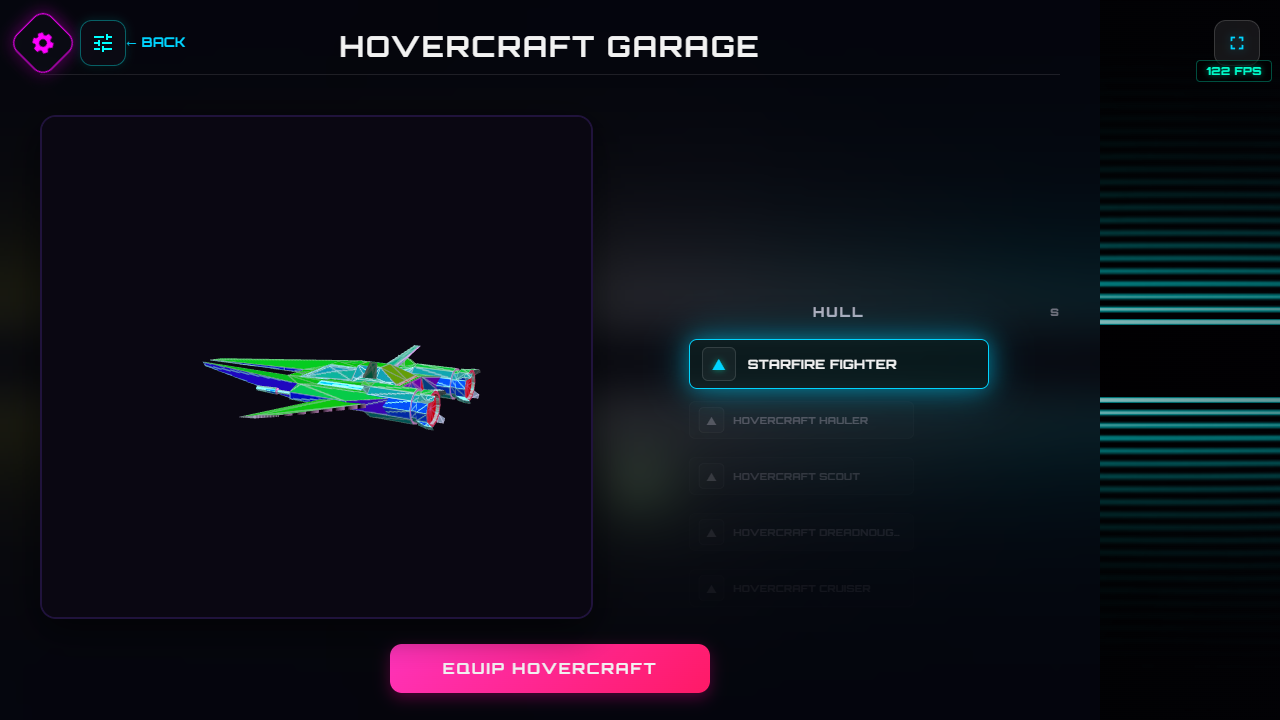
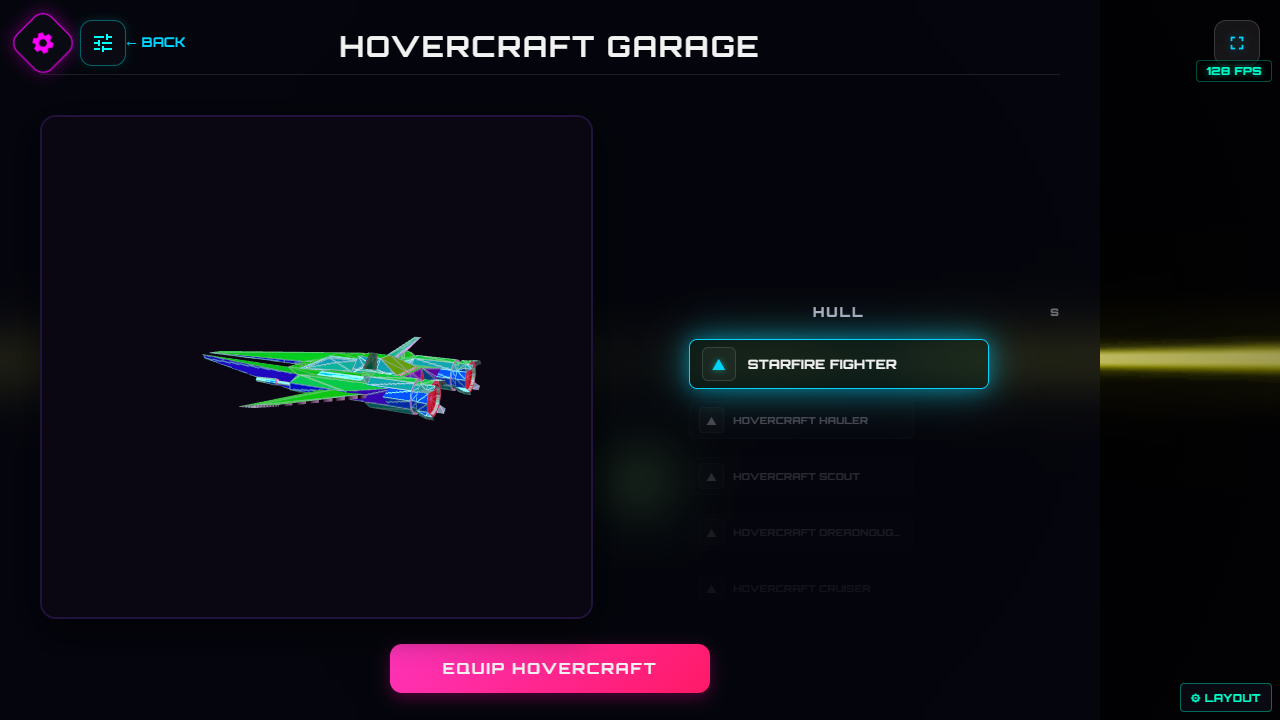
fix: resolve butterchurn import error by restoring Three-native visualizer configurations

diff --git a/visualizer/engine.js b/visualizer/engine.js
@@ -1,128 +1,92 @@
 /**
- * engine.js — standalone Butterchurn render engine.
+ * engine.js — visualizer engine (THREE-native Milkdrop renderer).
  *
- * Webamp's own milkdrop WINDOW never renders any DOM (its generated/resizable
- * window positions itself off `state.windows.browserWindowSize`, which stays
- * `{width:0,height:0}` in standalone embedded Webamp — confirmed via live
- * Playwright inspection of the redux store). Rather than fight Webamp's
- * window manager, we drive Butterchurn ourselves: pull a real AnalyserNode
- * off Webamp's playback graph (`media.getAnalyser()`) and render to our own
- * canvas, modeled on BrainBlur's `src/js/engine.js` but reading from this
- * project's own curated `presets.js` array (index-based, not a name-keyed
- * map).
+ * Webamp owns playback and exposes a live AnalyserNode (media.getAnalyser());
+ * we drive our own THREE-native Milkdrop-default renderer (visualizer/
+ * milkdrop/) off it. The renderer draws into THREE render targets in the
+ * game's OWN WebGL context, so its output is a normal THREE texture with no
+ * cross-context transfer — the stall that plagued every Butterchurn-based
+ * approach is gone by construction.
  *
- * The visible result is NOT composited directly onto the page as a DOM
- * overlay — confirmed via live debugging (a hardcoded solid-color test block
- * rendered into a canvas's pixel buffer but never appeared on screen) that
- * the game's bloom/post-processing pipeline always writes alpha=1 into its
- * final output, making the 3D canvas opaque on screen regardless of its own
- * "transparent" renderer settings. Rather than fight that, graphics.js reads
- * Butterchurn's rendered output into a THREE.CanvasTexture and uses it as
- * the scene's own background — same WebGL context as the game, no
- * cross-canvas alpha compositing. `getCanvas()` is the integration point.
+ * This module keeps the same public surface the rest of the app expects
+ * (getPresetKeys / getCurrentIndex / loadPresetByIndex / loadRandomPreset /
+ * dispose, consumed by controls.js), plus the new render hooks
+ * (renderFrame / getOutputTexture) graphics.js calls each frame.
  *
- * Butterchurn's public `createVisualizer()` always renders to its own
- * internal WebGL canvas, then unconditionally blits that to a 2D canvas via
- * `outputGl.drawImage()` every frame (its `Visualizer.render()` wrapper does
- * this; see node_modules/butterchurn/dist/butterchurn.js). That blit is a
- * real cost — TRIED bypassing it by calling `visualizer.renderer.render()`
- * directly and feeding `visualizer.internalCanvas` (an OffscreenCanvas)
- * straight to THREE's CanvasTexture, skipping the wrapper's blit entirely.
- * That ran faster but rendered nothing visible (no thrown error, just a
- * blank texture) — the OffscreenCanvas-as-texture-source path didn't behave
- * like the plain `<canvas>`-via-2D-blit path in this THREE/browser
- * combination. Reverted; the resolution cap below (RENDER_HEIGHT) is the
- * real, verified lever for this engine's frame cost.
+ * Preset assets are unchanged: public/visualizer-presets/*.json, registry in
+ * presets.js. Their equations are already translated to JS and all use the
+ * default warp/comp shaders, so the renderer consumes them directly (see
+ * visualizer/milkdrop/equations.js + renderer.js).
  */
 
-import butterchurn from 'butterchurn'
 import { presets } from './presets.js'
+import { AudioLevels } from './milkdrop/audioLevels.js'
+import { MilkdropRenderer } from './milkdrop/renderer.js'
 
-const PRESET_BLEND_SECONDS = 2.0
+const PRESET_BLEND_SECONDS = 2.0 // accepted for API compat (blend not yet implemented)
+const FEEDBACK_MAX_HEIGHT = 720 // feedback buffer cap — cheap, plenty for a backdrop
+// Phase 1 renders the basic waveform + warp/comp feedback (shapes/custom
+// waves come later), so start on a basic-waveform-driven preset rather than
+// registry index 0 (which is shape-driven and would render dark for now).
+const DEFAULT_PRESET_INDEX = 32 // "Wire Circular: Geiss - Bipolar 3"
 
-let visualizer = null
-let canvasEl = null
+let renderer = null
+let audio = null
 let currentIndex = -1
 let resizeHandler = null
-let rafId = null
+let lastTime = 0
 
-/**
- * Creates the Butterchurn visualizer, connects audio, and starts the
- * render/resize loops.
- *
- * @param {HTMLCanvasElement} canvas
- * @param {AudioContext} audioContext
- * @param {AudioNode} audioNode - real-time analyser tapped off playback audio
- * @returns {object} the butterchurn visualizer instance
- */
-// This canvas only ever ends up as a blurred-by-distance scene background
-// (see graphics.js's CanvasTexture). Rendering it at full screen resolution
-// (further multiplied by devicePixelRatio on high-DPI displays) costs real
-// time on every frame's WebGL->2D->WebGL blit chain, for detail nobody sees.
-// A fixed, modest resolution keeps that cost flat regardless of display.
-const RENDER_HEIGHT = 360
-
-function sizeFor(width, height) {
-  const h = RENDER_HEIGHT
-  const w = Math.round(h * (width / height))
-  return { w, h }
+function feedbackSize() {
+  const h = Math.min(FEEDBACK_MAX_HEIGHT, window.innerHeight || 720)
+  const aspect = (window.innerWidth || 1280) / (window.innerHeight || 720)
+  return { width: Math.max(2, Math.round(h * aspect)), height: Math.max(2, h) }
 }
 
-export function initEngine(canvas, audioContext, audioNode) {
-  // REVERTED: feeding visualizer.internalCanvas (an OffscreenCanvas) directly
-  // into THREE's CanvasTexture rendered nothing visible, despite no thrown
-  // error — that cross-context upload path didn't behave the way the public
-  // <canvas>-via-2D-blit path does. Back to the known-working route: let
-  // Butterchurn do its normal render() (WebGL draw + blit to this 2D
-  // canvas), and use *that* canvas as the texture source.
-  canvasEl = canvas
-  const { w, h } = sizeFor(window.innerWidth, window.innerHeight)
-  canvas.width = w
-  canvas.height = h
+/**
+ * @param {THREE.WebGLRenderer} threeRenderer - the game's own renderer
+ * @param {AudioContext} _audioContext - unused (kept for call-site compat)
+ * @param {AnalyserNode} audioNode - Webamp's live playback analyser
+ * @returns {{ outputTexture: THREE.Texture }}
+ */
+export function initEngine(threeRenderer, _audioContext, audioNode) {
+  // Configure the analyser for our bands (1024 fft → 512 bins) with light
+  // built-in smoothing; AudioLevels adds the attack/decay smoothing on top.
+  try {
+    audioNode.fftSize = 1024
+    audioNode.smoothingTimeConstant = 0.6
+  } catch {
+    // some analyser impls disallow reconfiguration; AudioLevels adapts to whatever it is
+  }
+  audio = new AudioLevels(audioNode)
 
-  visualizer = butterchurn.createVisualizer(audioContext, canvas, {
-    width: w,
-    height: h,
-    pixelRatio: 1
-  })
+  const { width, height } = feedbackSize()
+  renderer = new MilkdropRenderer(threeRenderer, { width, height })
 
-  visualizer.connectAudio(audioNode)
-
-  loadPresetByIndex(0)
+  loadPresetByIndex(DEFAULT_PRESET_INDEX)
 
   resizeHandler = () => {
-    const { w, h } = sizeFor(window.innerWidth, window.innerHeight)
-    canvas.width = w
-    canvas.height = h
-    visualizer.setRendererSize(w, h)
+    const { width, height } = feedbackSize()
+    renderer.resize(width, height)
   }
   window.addEventListener('resize', resizeHandler)
 
-  // Both the inner WebGL->2D blit and the outer 2D->WebGL texture upload
-  // (graphics.js) are cross-context sync points whose cost is dominated by
-  // per-call overhead, not pixel count — confirmed via live testing (CPU/GPU
-  // both ~15% utilized while FPS stayed capped well below the game's native
-  // rate). A blurred background visualizer doesn't need to update at the
-  // game's full framerate; throttling to ~30fps cuts those expensive calls
-  // by roughly 3x at typical 90-144fps game framerates, for no visible loss
-  // of smoothness on a soft backdrop.
-  const TARGET_INTERVAL_MS = 1000 / 30
-  let lastRenderTime = 0
-
-  function render(now) {
-    if (now - lastRenderTime >= TARGET_INTERVAL_MS) {
-      lastRenderTime = now
-      visualizer.render()
-    }
-    rafId = requestAnimationFrame(render)
-  }
-  rafId = requestAnimationFrame(render)
-
-  return visualizer
+  lastTime = performance.now()
+  return { outputTexture: renderer.outputTexture }
 }
 
-export function getCanvas() {
-  return canvasEl
+/** Drives one visualizer frame. Called by graphics.js before composer.render(). */
+export function renderFrame() {
+  if (!renderer || !audio) return
+  const now = performance.now()
+  let dt = (now - lastTime) / 1000
+  lastTime = now
+  if (!(dt > 0) || dt > 0.1) dt = 1 / 60 // clamp pauses/first-frame
+  audio.update(dt > 0 ? 1 / dt : 60)
+  renderer.renderFrame(audio, dt)
+}
+
+export function getOutputTexture() {
+  return renderer ? renderer.outputTexture : null
 }
 
 export function getPresetKeys() {
@@ -131,10 +95,10 @@ export function getPresetKeys() {
 
 let loadRequestCount = 0
 
-export async function loadPresetByIndex(index, blendSeconds = PRESET_BLEND_SECONDS) {
-  if (!visualizer || presets.length === 0) return null
+export async function loadPresetByIndex(index, _blendSeconds = PRESET_BLEND_SECONDS) {
+  if (!renderer || presets.length === 0) return null
   const wrapped = ((index % presets.length) + presets.length) % presets.length
-  
+
   const reqId = ++loadRequestCount
   currentIndex = wrapped
   const preset = presets[wrapped]
@@ -143,9 +107,8 @@ export async function loadPresetByIndex(index, blendSeconds = PRESET_BLEND_SECON
     const response = await fetch(`./visualizer-presets/${preset.file}.json`)
     if (!response.ok) throw new Error(`HTTP error! status: ${response.status}`)
     const presetObj = await response.json()
-
     if (reqId === loadRequestCount) {
-      visualizer.loadPreset(presetObj, blendSeconds)
+      renderer.loadPreset(presetObj)
     }
   } catch (error) {
     console.error(`Failed to load preset "${preset.name}":`, error)
@@ -169,11 +132,10 @@ export function dispose() {
     window.removeEventListener('resize', resizeHandler)
     resizeHandler = null
   }
-  if (rafId != null) {
-    cancelAnimationFrame(rafId)
-    rafId = null
+  if (renderer) {
+    renderer.dispose()
+    renderer = null
   }
-  visualizer = null
-  canvasEl = null
+  audio = null
   currentIndex = -1
 }

diff --git a/visualizer/index.js b/visualizer/index.js
@@ -1,27 +1,18 @@
-/**
- * index.js — public entrypoint for the visualizer module.
- *
- * The only function the game's bootstrap code needs to call. Wires up
- * Webamp (for playback + playlist UI), a standalone Butterchurn render
- * engine fed by Webamp's real playback analyser (see engine.js for why
- * Webamp's own milkdrop window isn't used), the preset-control state
- * machine, and the floating control panel UI.
- */
-
 import './style.css'
 import { init as initWebamp } from './webamp-init.js'
 import * as engine from './engine.js'
 import { createControls } from './controls.js'
 
 /**
- * @param {{ initialTracks?: Array }} options
- * @returns {Promise<{ webamp: import('webamp').default, controls: object, canvas: HTMLCanvasElement, dispose(): void }>}
- *   `canvas` is the raw Butterchurn output canvas — NOT meant to be
- *   displayed directly (see engine.js's note on the bloom/alpha bug). The
- *   caller (app.js) hands it to graphics.js to use as a CanvasTexture
- *   instead.
+ * @param {{ initialTracks?: Array, threeRenderer: THREE.WebGLRenderer }} options
+ *   `threeRenderer` is the game's own renderer — the Milkdrop visualizer
+ *   draws into render targets in its context (see engine.js / milkdrop/).
+ * @returns {Promise<{ webamp: import('webamp').default, controls: object, outputTexture: THREE.Texture, renderFrame: function, dispose(): void }>}
+ *   `outputTexture` is the visualizer's render-target texture (sample as
+ *   scene background / wall map); `renderFrame` draws one feedback frame into
+ *   it and must be called once per game frame before the composer.
  */
-export async function initVisualizer({ initialTracks = [] } = {}) {
+export async function initVisualizer({ initialTracks = [], threeRenderer } = {}) {
   // Webamp centers its whole window group within whatever element you pass
   // to renderWhenReady — passing the full-viewport `container` puts the
   // player dead-center of the screen, right behind the ship/cockpit model.
@@ -31,14 +22,8 @@ export async function initVisualizer({ initialTracks = [] } = {}) {
   document.body.appendChild(webampAnchor)
   const webamp = await initWebamp(webampAnchor, { initialTracks })
 
-  // Kept off-screen/invisible — its pixel buffer is read into a THREE.js
-  // CanvasTexture by graphics.js, not displayed as a DOM overlay directly.
-  const canvas = document.createElement('canvas')
-  canvas.id = 'visualizer-canvas'
-  document.body.appendChild(canvas)
-
   const analyser = webamp.media.getAnalyser()
-  engine.initEngine(canvas, analyser.context, analyser)
+  const { outputTexture } = engine.initEngine(threeRenderer, analyser.context, analyser)
 
   const controls = createControls(webamp, engine)
   // Floating control panel removed — the visualizer controls now live inside
@@ -47,9 +32,8 @@ export async function initVisualizer({ initialTracks = [] } = {}) {
   function dispose() {
     controls.dispose()
     engine.dispose()
-    canvas.remove()
     webampAnchor.remove()
   }
 
-  return { webamp, controls, canvas, dispose }
+  return { webamp, controls, outputTexture, renderFrame: engine.renderFrame, dispose }
 }

diff --git a/visualizer/style.css b/visualizer/style.css
@@ -7,9 +7,9 @@
  *    pipeline writes alpha=1 into its final output regardless of the scene's
  *    own transparency, so this canvas could never be visibly composited as a
  *    DOM overlay behind the game's 3D canvas no matter how it was styled.
- *    graphics.js instead reads its pixels into a THREE.CanvasTexture used as
- *    the game's own scene.background. This canvas only needs to exist and
- *    render — not be seen directly.
+ *    graphics.js instead reads its pixels into a THREE texture used as the
+ *    game's own scene.background. This canvas only needs to exist and render
+ *    — not be seen directly.
  * 2. The control-panel UI, modeled visually on BrainBlur's `.skin-modal`
  *    family (src/css/style.css), but trimmed to only what control-panel.js
  *    actually uses (no search/tabs/gallery markup).

diff --git a/visualizer/webamp-init.js b/visualizer/webamp-init.js
@@ -38,8 +38,12 @@ let webampInstance = null
  * @param {{ initialTracks?: Array }} options
  * @returns {Promise<Webamp>} the webamp instance
  */
+// Startup position for the main window, tuned via layoutDebugPanel.js at a
+// 2560-wide viewport (top-right, clear of the title card / crossbar).
+const WINDOW_LAYOUT = { main: { position: { x: 2024, y: 0 } } }
+
 export async function init(container, { initialTracks = [] } = {}) {
-  webampInstance = new Webamp({ initialTracks })
+  webampInstance = new Webamp({ initialTracks, windowLayout: WINDOW_LAYOUT })
 
   // Webamp with no skin renders correct-size/position DOM but paints
   // nothing (no sprite texture to draw with) — load a real skin so the
